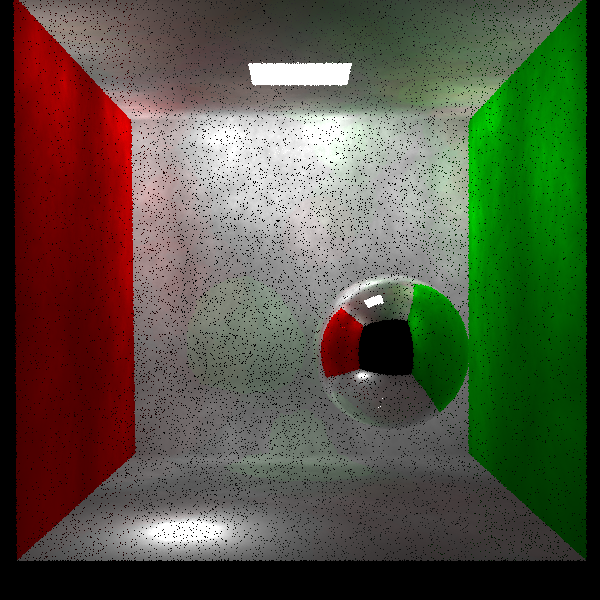
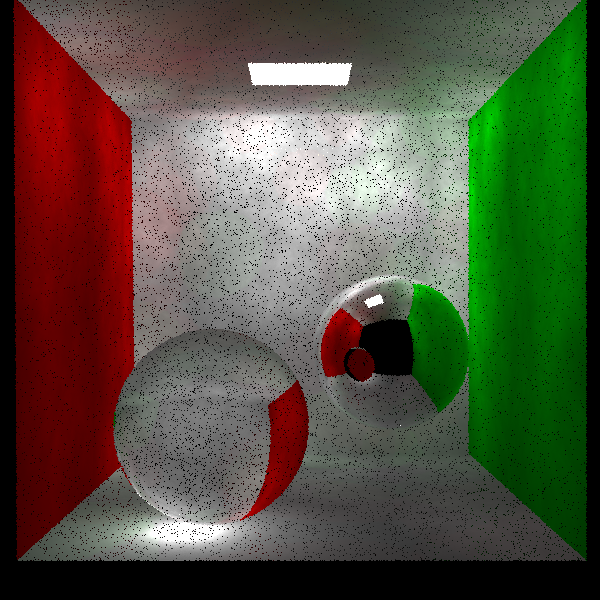
Total internal reflection debug

diff --git a/src/ray/renderer/PhotonMapRenderer.java b/src/ray/renderer/PhotonMapRenderer.java
@@ -487,11 +487,11 @@ public class PhotonMapRenderer implements Renderer {
 
 						//Check the critical angle
 						double sinTheta1 = operand1.length();
-						if(sinTheta1 > 1/eta_1__eta2 && false){
+						if(sinTheta1 > 1.0/eta_1__eta2 ){
 							//Perform a total internal reflection
 							//Sid debug this.
 
-							//Create a ray in a in  the direction of specular reflection
+							//Create a ray in  the direction of specular reflection
 							Vector3 reffDir = new Vector3(ray.direction);
 
 							//Reorient the direction to have its base aligned to the tangent plane of the surface
@@ -509,6 +509,10 @@ public class PhotonMapRenderer implements Renderer {
 
 							transmitDir.set(ray.direction);
 							transmitDir.scale(-1);
+
+							//outColor.set(1.0,0.3,1.0);
+							//transmitDir
+							//return;
 							//Sid end debug
 						}
 						else{
@@ -535,6 +539,7 @@ public class PhotonMapRenderer implements Renderer {
 						
 					}
 
+					transRay.direction.set(transmitDir);
 					transRay.makeOffsetRay();
 					//Cast the ray
 					rayRadiance(scene, transRay, sampler, sampleIndex, outColor);
